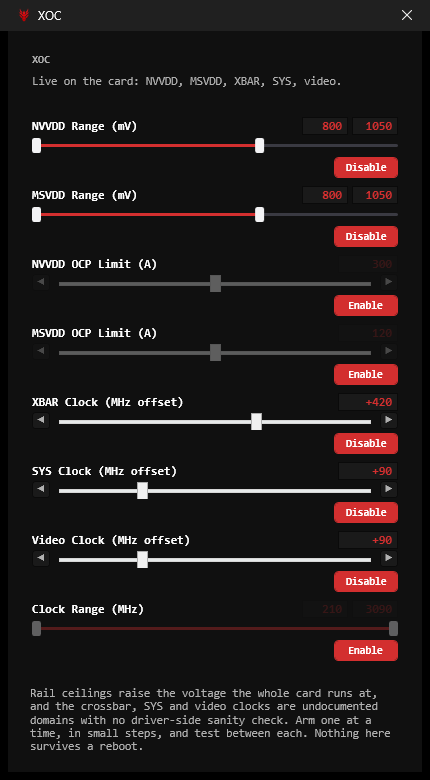
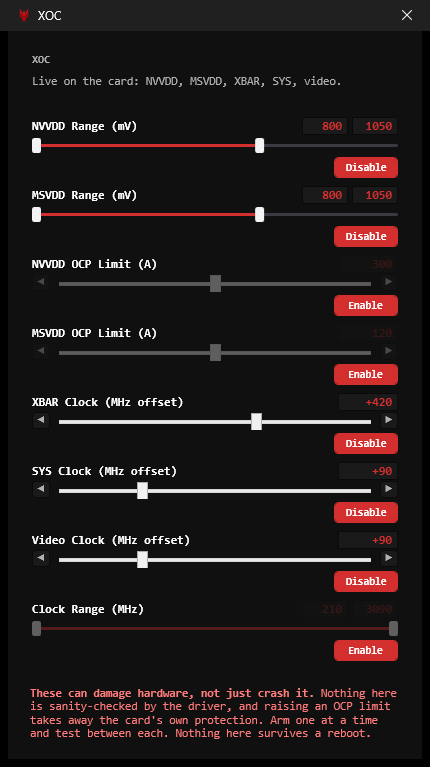
One warning for the XOC window, in a colour that reads as one
The note at the bottom explained the rails and the clock domains in muted grey
and had nothing to say about the OCP limits added since - which are the ones that
most need saying, because everything else in that window is performance and those
two are protection. Push a clock too far and the card falls over and you reboot;
raise an OCP limit and it stops stopping itself.

Shorter, and warning-coloured rather than muted, so it reads as a warning instead
of as more explanation.

286 tests pass.

diff --git a/src/GpuTuner.App/XocWindow.xaml b/src/GpuTuner.App/XocWindow.xaml
@@ -39,9 +39,15 @@
             </StackPanel>
         </Border>
 
+        <!-- One warning for the window rather than a paragraph per lever. The old note explained the
+             rails and the clock domains and had nothing to say about the OCP limits added since,
+             which are the ones that need saying most: everything else here is performance, and those
+             two are protection. -->
         <Border DockPanel.Dock="Bottom" Style="{StaticResource Panel}" Padding="10,7" Margin="0,8,0,0">
-            <TextBlock Style="{StaticResource Muted}" TextWrapping="Wrap"
-                       Text="Rail ceilings raise the voltage the whole card runs at, and the crossbar, SYS and video clocks are undocumented domains with no driver-side sanity check. Arm one at a time, in small steps, and test between each. Nothing here survives a reboot."/>
+            <TextBlock TextWrapping="Wrap" Foreground="{DynamicResource WarnBrush}" FontSize="11.5">
+                <Run FontWeight="Bold" Text="These can damage hardware, not just crash it."/>
+                <Run Text="Nothing here is sanity-checked by the driver, and raising an OCP limit takes away the card's own protection. Arm one at a time and test between each. Nothing here survives a reboot."/>
+            </TextBlock>
         </Border>
 
         <Border Style="{StaticResource Panel}" Padding="12,10">
